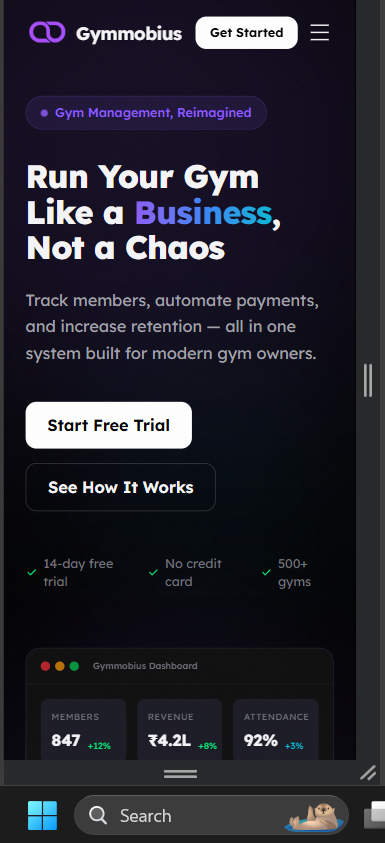
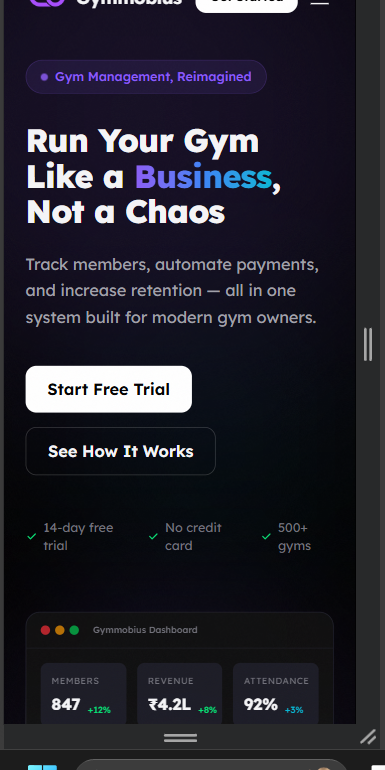
mobile image for manifest updated

diff --git a/api/manifest.js b/api/manifest.js
@@ -120,7 +120,7 @@ function buildTenantManifest(gym, origin) {
     ],
     screenshots: [
       { src: `${origin}/screenshots/desktop.png`, sizes: '1280x720', type: 'image/png', form_factor: 'wide', label: `${name} dashboard` },
-      { src: `${origin}/screenshots/mobile.png`, sizes: '385x843', type: 'image/png', label: `${name} on mobile` },
+      { src: `${origin}/screenshots/mobile.png`, sizes: '385x770', type: 'image/png', label: `${name} on mobile` },
     ],
 
   }

diff --git a/vite.config.ts b/vite.config.ts
@@ -33,7 +33,7 @@ function devManifestPlugin(): Plugin {
     ],
     screenshots: [
       { src: '/screenshots/desktop.png', sizes: '1280x720', type: 'image/png', form_factor: 'wide', label: 'Gymmobius dashboard' },
-      { src: '/screenshots/mobile.png',  sizes: '385x843',  type: 'image/png', label: 'Gymmobius on mobile' },
+      { src: '/screenshots/mobile.png',  sizes: '385x770',  type: 'image/png', label: 'Gymmobius on mobile' },
     ],
 
   }
